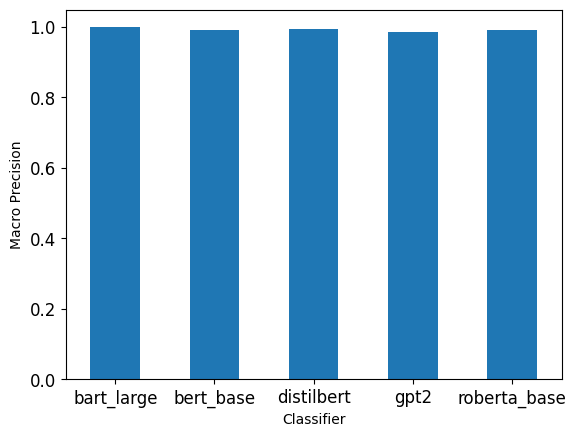
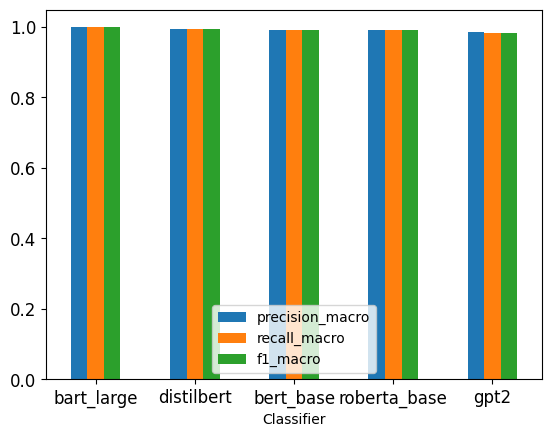
add results and charts

diff --git a/llm_classifier.py b/llm_classifier.py
@@ -191,14 +191,23 @@ grouped_data = group_data(df_results, ["classifier"])
 
 export_to_xlsx(grouped_data, os.path.join(save_results_dir, "results.xlsx"))
 
-chart = df_results.groupby('classifier')['precision_macro'].mean().plot.bar(x='classifier', y='precision_macro',
-                                                                            rot=0,
-                                                                            # figsize=(10,4), # Figsize to make the plot larger
-                                                                            # title='', # Adding a title to the top
-                                                                            xlabel="Classifier",
-                                                                            # Adding a label on the xaxis
-                                                                            ylabel="Macro Precision",
-                                                                            # Adding a label on y axis
-                                                                            fontsize='large')
+# df_results.groupby('classifier')['precision_macro'].mean().plot.bar(x='classifier',
+#                                                                             rot=0,
+#                                                                             # figsize=(10,4), # Figsize to make the plot larger
+#                                                                             # title='', # Adding a title to the top
+#                                                                             xlabel="Classifier",
+#                                                                             # Adding a label on the xaxis
+#                                                                             ylabel="Macro Precision",
+#                                                                             # Adding a label on y axis
+#                                                                             fontsize='large')
+df_results[["classifier", 'precision_macro', 'recall_macro', 'f1_macro']].groupby(by="classifier").mean() \
+    .sort_values("precision_macro", ascending=False) \
+    .plot.bar(rot=0,
+              # figsize=(10,4), # Figsize to make the plot larger
+              # title='', # Adding a title to the top
+              xlabel="Classifier",
+              # Adding a label on y axis
+              fontsize='large')
 plt.savefig(os.path.join(save_results_dir, 'macro_precision.png'), bbox_inches='tight')
+
 plt.show()
